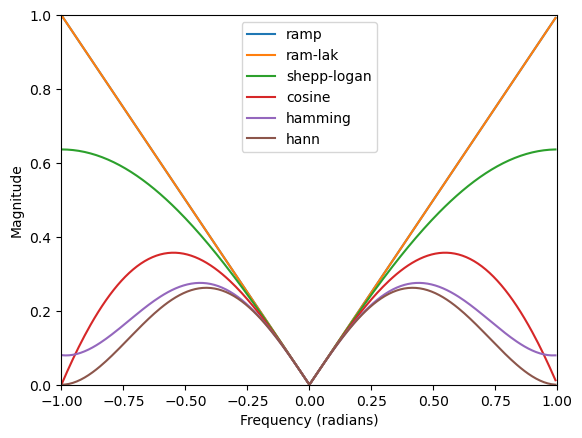
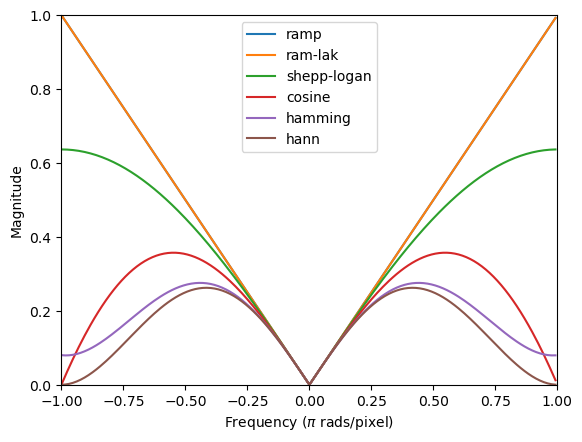
comment and image

diff --git a/Wrappers/Python/cil/recon/FBP.py b/Wrappers/Python/cil/recon/FBP.py
@@ -233,7 +233,7 @@ class GenericFilteredBackProjection(Reconstructor):
 
         # frequency bins in cycles/pixel
         freq = fftfreq(filter_length)
-        # in radians
+        # in pi rad/pixel
         freq*=2
 
         ramp = abs(freq)
